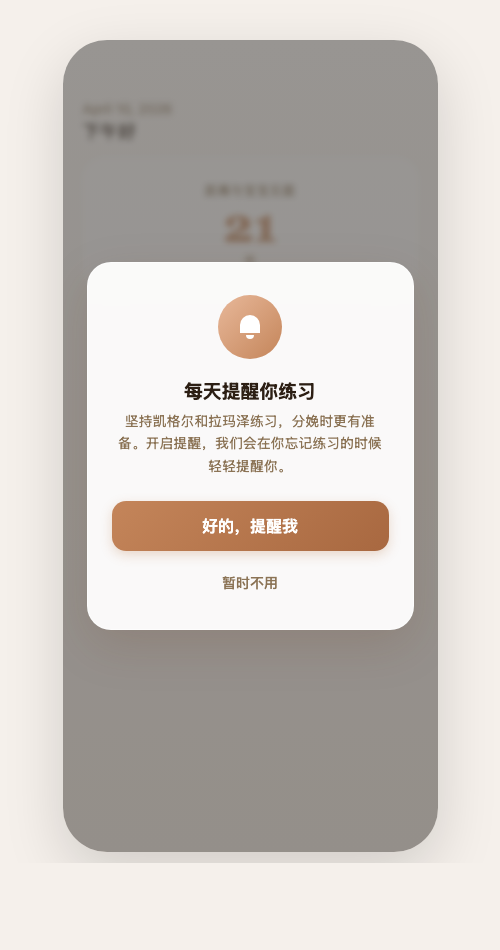
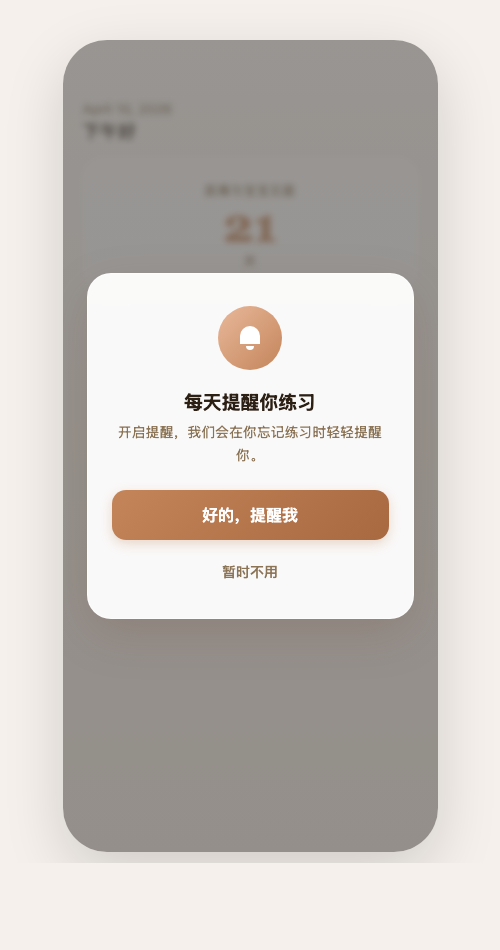
PRD: 预请求弹窗文案浓缩成一句

Changed region(s): [[0.18, 0.2747, 0.84, 0.6716]]

diff --git a/PRD-v2.0.md b/PRD-v2.0.md
@@ -807,7 +807,7 @@ April 8, 2026
 
 **弹窗内容：**
 - 标题：「每天提醒你练习」
-- 正文：「坚持凯格尔和拉玛泽练习，分娩时更有准备。开启提醒，我们会在你忘记练习的时候轻轻提醒你。」
+- 正文：「开启提醒，我们会在你忘记练习时轻轻提醒你。」
 - 主按钮：「好的，提醒我」→ 触发第 2 步系统弹窗
 - 次按钮：「暂时不用」→ 关闭弹窗，不再弹出
 
